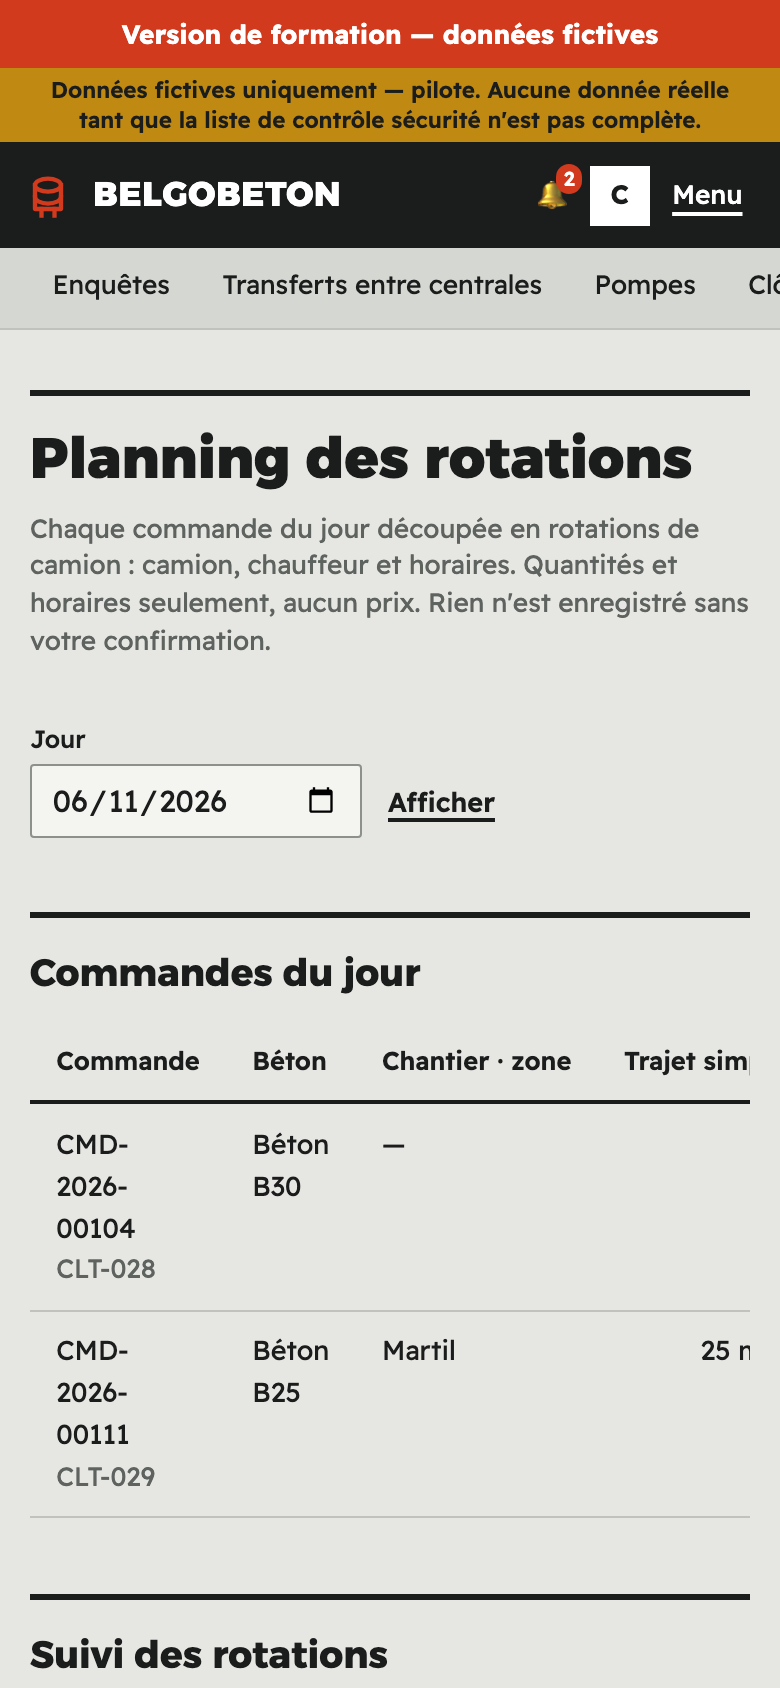
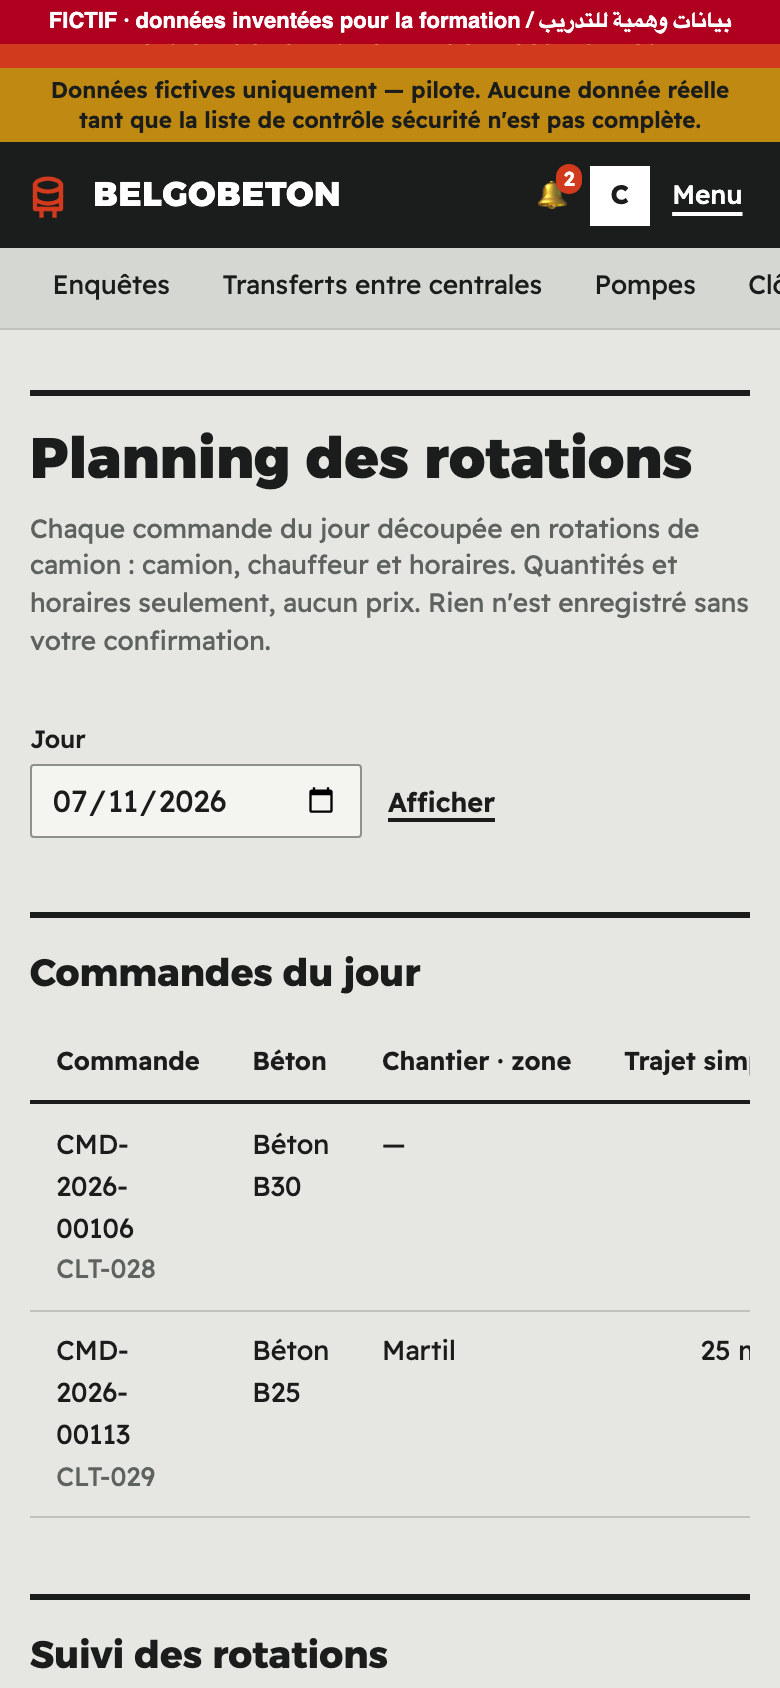
R14-14: regenerate the 17 training screenshots with a page-success assertion, a fiction label, and invented driver labels
The five 404 captures are replaced by pages the roles really have. Not a failing-before test case: the check is the script's own assertion
(a 404 now stops the run). Three of the 17 images were looked at by hand (timing crop, a sales page, the driver phone).

Changed region(s): [[0.0, 0.0, 1.0, 0.0308], [0.1538, 0.7085, 0.1846, 0.7393], [0.0923, 0.4621, 0.1231, 0.4929]]

diff --git a/scripts/training-screens.ts b/scripts/training-screens.ts
@@ -4,11 +4,15 @@
 // training mode, signs in as each account with the credentials the seed just issued (read in memory from a private temporary file that is
 // deleted afterwards, never written to an image or printed), and saves PNGs at 390x844, device scale factor 2. Only pages AFTER sign-in are
 // photographed, so no password or PIN is ever on screen. Fictitious data only.
+// R14-14: every page is asserted to have LOADED (a status below 400, the address asked for, not a 404 or a redirect to the sign-in) before it is
+// photographed, and the script fails otherwise; every image carries a visible "fictif" label; the seed's realistic first names for drivers are
+// replaced, in the picture only, by unambiguous invented labels ("Chauffeur fictif A") so that no image reads as a named worker's record.
 import { spawn } from 'node:child_process';
 import { chmodSync, mkdirSync, mkdtempSync, readFileSync, rmSync } from 'node:fs';
 import { tmpdir } from 'node:os';
 import path from 'node:path';
-import { chromium } from '@playwright/test';
+import { chromium, type Page } from '@playwright/test';
+import pg from 'pg';
 import { TRAINING_TEST_DATABASE, ensureRoles, recreateDatabase } from './db-bootstrap';
 import { runMigrations } from './db-migrate';
 import { seedTraining } from './seed-training';
@@ -49,17 +53,19 @@ const SHOTS: { key: string; label: RegExp; pages: [string, string][] }[] = [
   {
     key: 'ventes',
     label: /^Bureau ventes/,
+    // The sales office reads orders without money (the chain) and writes quotes; the money lists are the owner's.
     pages: [
-      ['orders', '/fr/orders'],
-      ['quotes', '/fr/quotes'],
+      ['orders-chain', '/fr/orders/chain'],
+      ['quotes-new', '/fr/quotes/new'],
     ],
   },
   {
     key: 'achats',
     label: /^Bureau achats/,
+    // The purchasing office writes purchases and sees the plant's receipts; the money list and the stock board are not its pages.
     pages: [
-      ['purchases', '/fr/purchases'],
-      ['stock', '/fr/stock'],
+      ['purchases-new', '/fr/purchases/new'],
+      ['receipts', '/fr/receipts'],
     ],
   },
   {
@@ -94,8 +100,54 @@ const SHOTS: { key: string; label: RegExp; pages: [string, string][] }[] = [
       ['approvals', '/fr/approvals'],
     ],
   },
-  { key: 'admin', label: /^Administrateur/, pages: [['admin', '/fr/admin']] },
+  { key: 'admin', label: /^Administrateur/, pages: [['users', '/fr/admin/users']] },
 ];
+
+/** The label every image carries, in French and in Arabic. */
+const FICTION_LABEL = 'FICTIF · données inventées pour la formation / بيانات وهمية للتدريب';
+
+/**
+ * Makes the page ready to be photographed: replaces the seed's driver first names by invented labels (in the picture only; the database
+ * keeps its data) and adds the visible fiction label. `into` = a selector: the label is put at the top of that element (a crop); without
+ * it, as a fixed bar at the top of the page.
+ */
+async function prepareShot(page: Page, driverNames: string[], into?: string): Promise<void> {
+  await page.evaluate(
+    ({ names, label, into: target }) => {
+      const walker = document.createTreeWalker(document.body, NodeFilter.SHOW_TEXT);
+      const nodes: Text[] = [];
+      for (let n = walker.nextNode(); n; n = walker.nextNode()) nodes.push(n as Text);
+      names.forEach((name, i) => {
+        const fake = `Chauffeur fictif ${String.fromCharCode(65 + (i % 26))}`;
+        for (const node of nodes) if (node.data.includes(name)) node.data = node.data.split(name).join(fake);
+      });
+      const bar = document.createElement('div');
+      bar.setAttribute('data-testid', 'fiction-label');
+      bar.textContent = label;
+      bar.style.cssText =
+        'background:#b00020;color:#fff;font:700 11px/22px sans-serif;text-align:center;direction:ltr;' +
+        (target ? '' : 'position:fixed;top:0;left:0;right:0;z-index:2147483647;');
+      const host = target ? document.querySelector(target) : null;
+      if (host) host.prepend(bar);
+      else document.body.append(bar);
+    },
+    { names: driverNames, label: FICTION_LABEL, into },
+  );
+}
+
+/** Goes to a page and fails unless it really loaded: a status below 400, and the address asked for (not a 404, not a redirect to sign-in). */
+async function openPage(page: Page, url: string): Promise<void> {
+  const response = await page.goto(url);
+  if (!response || response.status() >= 400)
+    throw new Error(`screenshot page ${url} answered ${response?.status() ?? 'nothing'}`);
+  await page.waitForLoadState('networkidle').catch(() => undefined);
+  const landed = new URL(page.url());
+  if (landed.pathname !== new URL(url).pathname)
+    throw new Error(`screenshot page ${url} landed on ${landed.pathname}`);
+  // Next.js serves its not-found page with the layout around it: look for it as well.
+  if (await page.locator('text=/^404$|This page could not be found/').count())
+    throw new Error(`screenshot page ${url} is a 404 page`);
+}
 
 async function main() {
   process.env.E2E_TEST_RUNNER ??= 'training-screens'; // R14-13: the positive runner signal the throwaway-database seed escape needs
@@ -116,6 +168,14 @@ async function main() {
       credentialsFile,
     });
     const creds = parseCredentials(readFileSync(credentialsFile, 'utf8'));
+    // The drivers' names as the seed made them, longest first so that no name hides inside another.
+    const namesPool = new pg.Pool({ connectionString: env.DATABASE_URL_MIGRATOR, max: 1 });
+    const driverNames = (
+      await namesPool.query<{ name: string }>(`select name from driver order by code`)
+    ).rows
+      .map((r) => r.name)
+      .sort((a, b) => b.length - a.length);
+    await namesPool.end();
 
     server = spawn(
       process.execPath,
@@ -174,11 +234,15 @@ async function main() {
         await page.click('button[type=submit]');
         await page.waitForURL(`${BASE}/fr`, { timeout: 30_000 });
         for (const [name, url] of shot.pages) {
-          await page.goto(`${BASE}${url}`);
-          await page.waitForLoadState('networkidle').catch(() => undefined);
+          await openPage(page, `${BASE}${url}`);
+          await prepareShot(page, driverNames);
           await page.screenshot({ path: `${OUT}/${shot.key}-${name}.png` });
-          if (name === 'dispatch' && (await page.getByTestId('timing-board').count()))
+          if (name === 'dispatch' && (await page.getByTestId('timing-board').count())) {
+            // the crop has its own label, inside the element (the page's fixed bar is not part of an element screenshot)
+            await page.getByTestId('fiction-label').evaluate((el) => el.remove());
+            await prepareShot(page, [], '[data-testid=timing-board]');
             await page.getByTestId('timing-board').screenshot({ path: `${OUT}/${shot.key}-timing.png` });
+          }
         }
         await ctx.close();
       }
@@ -198,6 +262,7 @@ async function main() {
         await page.getByTestId('field-signin').click();
         await page.getByTestId('field-day').waitFor({ timeout: 30_000 });
         await page.waitForLoadState('networkidle').catch(() => undefined);
+        await prepareShot(page, driverNames);
         await page.screenshot({ path: `${OUT}/${key}-day.png` });
         await ctx.close();
       }

diff --git a/docs/DECISIONS.md b/docs/DECISIONS.md
@@ -247,3 +247,4 @@ Status: **Ali, confirmed with owner** unless marked provisional (🟡). They sup
 182. 🟡 **T7 group B, R14-01: cancelling, starting and replacing a rotation are one serialized decision (migration 0119).** (1) **One lock order**: the DAY (`trip_plan_day:<date>`), then the day's live rotations by id (`trip_event:<trip>`, the key the event writer already used), and only then any audited write (the audit chain's global lock is held until commit, so a lock taken after an audited write could wait for a writer that waits for the audit lock). The dispatch service (`lockDispatchDay`) takes them first in save, reassign and postpone and READS THE STATE AFTER; the database guards take the same locks again (free for the same transaction), so the rule also holds for any other writer. (2) **"Started" is one definition**, `trip_started(trip)`: a `trip_event`, OR the driver's `loading_started` report. The cancellation trigger now takes the day lock and the event writer's trip lock before judging, and a new guard on `trip_driver_report` takes that trip lock and refuses a cancelled rotation, so a tap and a cancellation cannot both commit. (3) **Plan identity**: one live rotation per work item (day, order, number), enforced by `trip_plan_guard` under the day lock (unique-violation, so the service answers CONFLICT), whatever the batch; the new rotations of an order are numbered after the ones that stay (before, a replan restarted at 1 beside a started rotation). The training seed does the same. A reassignment or postponement whose rotation was changed by someone else while it waited answers CONFLICT ("the plan changed, retry"); one that meets a start answers STARTED. (4) **Overlap policy**: a driver or a truck on two live rotations that overlap is refused (`OVERLAP`) unless the caller gives the reason of an explicit exception (`overlapReason`, 3 to 300 characters), recorded in the insert-only, audited `trip_overlap_override` through `record_dispatch_overlap` (owner, app_admin, plant manager; a partner gets FORBIDDEN). The reason is read like the change log (owner, app_admin, plant manager of the plant). **The rule is enforced by the service under the day lock, not by a database trigger**: the training seed and many test fixtures legitimately write several rotations of one truck at the same time, and a trigger would have refused them. A direct writer that bypasses the service is therefore not stopped from double-booking; identity and serialization are enforced in the database. The reassign action now returns the conflicts that remain (and whether an override was used); the timing board lists them after "Enregistré". Tests: `tests/dispatch-serialization.int.test.ts` (held transactions make each race deterministic: cancel vs start both ways, the event writer vs the cancellation trigger, two reassignments of one and of two rotations, two saves of the same work, the identity guard, the overlap policy). Residual: partner/support still read `trip_event` and the plan (operational tables), see R14-02.
 183. 🟡 **T7 group B, R14-02: the manager's explanation stays in the restricted tables (migration 0120).** (1) The free text of a reassignment or a postponement is written ONLY to `trip_dispatch_change.reason`. The broader records get a code: the plan's `driver_override_reason` is `reassigned` (it was a copy of the explanation) and the cancellation's `reason` is `postponed` (it was `Reporté : <explanation>`). `reassignTrip` no longer takes an override reason; the screen's own D91 reason (a driver other than the truck's default, typed in the plan) is a separate field of the plan and unchanged: it is planning information for the people who read the plan, and must not carry remarks about a person's work. (2) The restrictive audit policy now names every table that holds, or held, such a copy: `trip_delay`, `trip_dispatch_change`, `trip_estimate_override`, `trip_overlap_override`, `trip_plan`, `trip_plan_cancellation`, `trip_event`, `trip_driver_report`; their audit rows are read by the owner and app_admin only. Restricting by table name (not by content) also covers the rows written before this change, which may hold the free text and cannot be rewritten (the tables are insert-only): on a training volume they disappear with the next reset; production never held any. (3) **Residual, by decision**: the operational tables themselves keep their read rules, so partner and support still read the plan and the tap events (`trip_event`, `trip_driver_report`), from which a person could compute a driver's timings. That is the dispatch record the partner and support roles exist to see; removing it would be a change of roles for the owner to decide, not a privacy fix. What is closed is the side door: the explanations and the derived delays. Tests (`tests/trip-timing.int.test.ts`, last block): the text appears in the change log and its audit copy only; partner, support, accountant, sales, purchases, another plant's manager and a driver find nothing in the plan, the cancellations or the audit; a legacy row with the free text is invisible through the audit; four tests fail on the code before this change.
 184. 🟡 **T7 group B, R14-05: the estimate reader authorizes positively and enforces scope (migration 0121).** `trip_stage_estimate` (SECURITY DEFINER) refused with `ctx.driver_id() IS NULL AND v_role NOT IN (...)`, which is NULL, not true, when no role is set, so a call with no role context read the history and overrides of any plant; it also trusted the plant and zone it was given. Now the caller must be (a) a driver, for a plant and zone of a live rotation planned for him, (b) a plant manager, for his own (non-null) plant, or (c) the owner or app_admin; everything else, including no role, is refused with `insufficient_privilege`. **A driver gets a median only when at least 3 different drivers' rotations are behind it** (the median of one or two people is their own timing); below that he gets the manager's override or the code's defaults, so on a sparse route a driver sees "default" where the manager sees "history". The manager and the owner have no floor. The threshold (3) is a choice, not a standard: raise it in the function if the owner wants more cover. The phone's HTTP path only asks for estimates of the caller's own rotations, so nothing changes for a normal day. Tests (`tests/trip-timing.int.test.ts`, last block): foreign plant manager, null plant, foreign driver, a route the driver is not on, no role context (unset and empty), the roles that read no timing, and the three-driver floor; four tests fail on the old function.
+185. 🟡 **T7 group B, R14-14: the training screenshots are asserted, labelled and de-named.** `scripts/training-screens.ts` fails unless each page answered below 400, landed on the address asked for and is not a 404 page. The five 404 captures came from pages those roles do not have (the money lists and the stock board are not the sales or purchasing office's, and `/admin` has no page); they are replaced by pages the role really has (`ventes-orders-chain`, `ventes-quotes-new`, `achats-purchases-new`, `achats-receipts`, `admin-users`). Every image carries a red "FICTIF / بيانات وهمية" label (a bar on full pages, inside the element on the timing crop). The seed's realistic driver first names are replaced in the picture only by "Chauffeur fictif A, B, ..."; the database is unchanged. The 17 images were regenerated against a throwaway database (`belgobeton_training_test`) and port 3190 from a separate build; the running training instance was not touched. Note: the sales guide still tells the trainee to open *Devis* and *Commandes*, lists the sales office profile does not have; the guide text needs a read-through against the real navigation (not done here).
